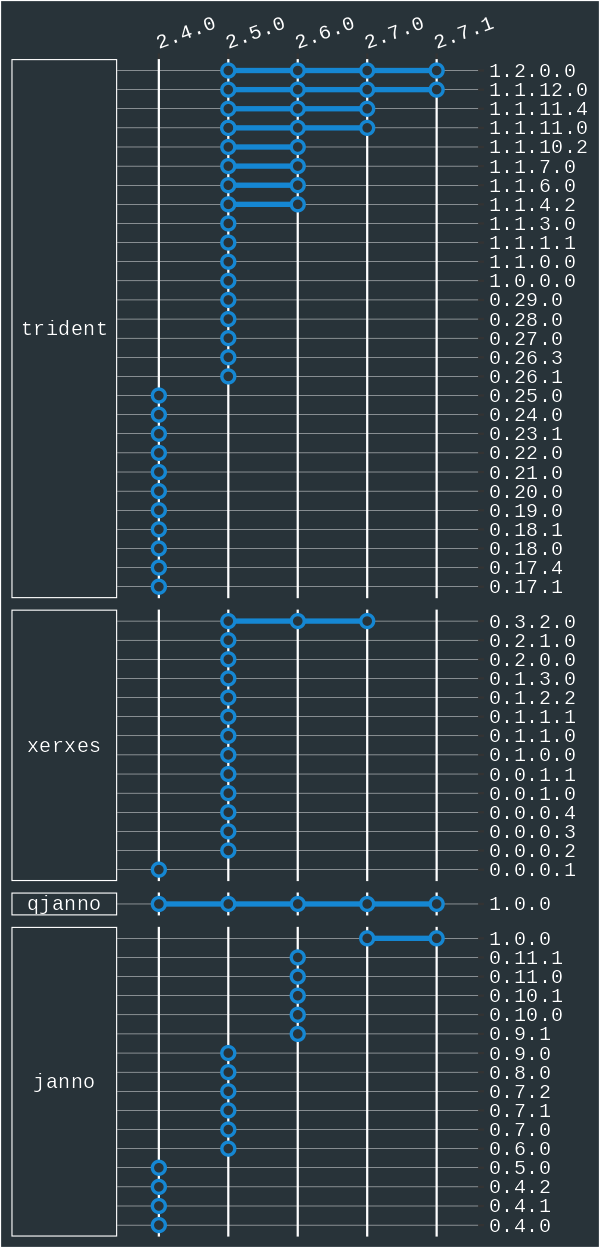
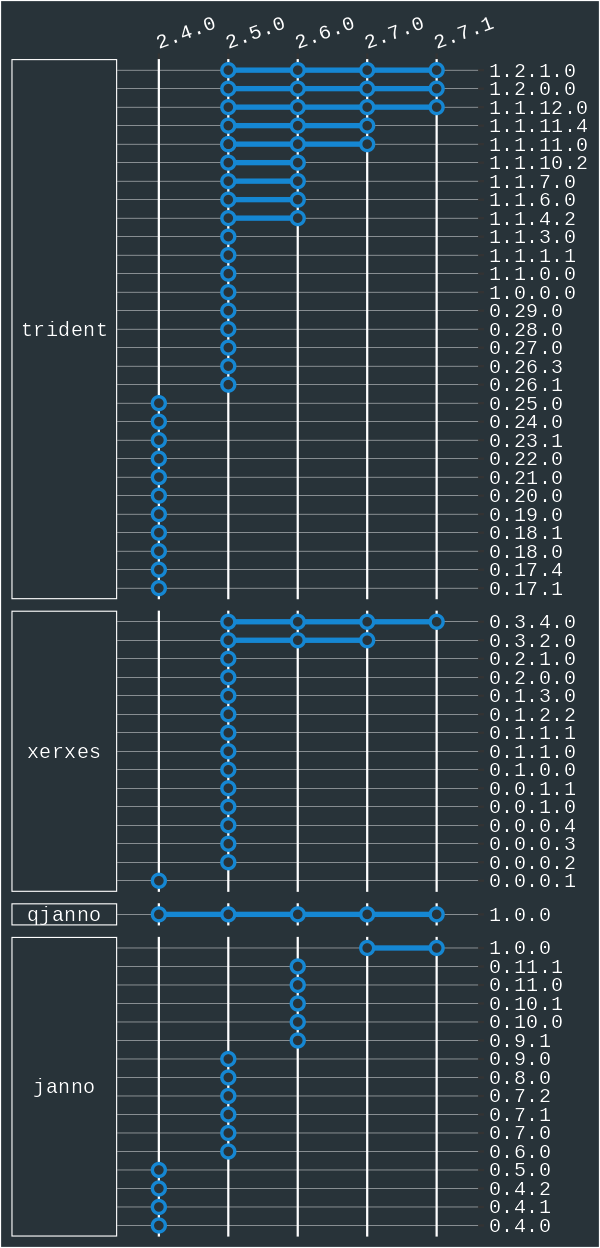
update of homepage after trident and xerxes updates

diff --git a/trident.md b/trident.md
@@ -29,9 +29,9 @@ Beyond the documentation below you can use `trident --help` and `trident <subcom
 
 <!-- tabs:start -->
 
-#### **v1.2.0.0**
+#### **v1.2.0.0 to v1.2.1.0**
 
-## Guide for trident v1.2.0.0
+## Guide for trident v1.2.0.0 to v1.2.1.0
 
 ### The trident CLI
 
